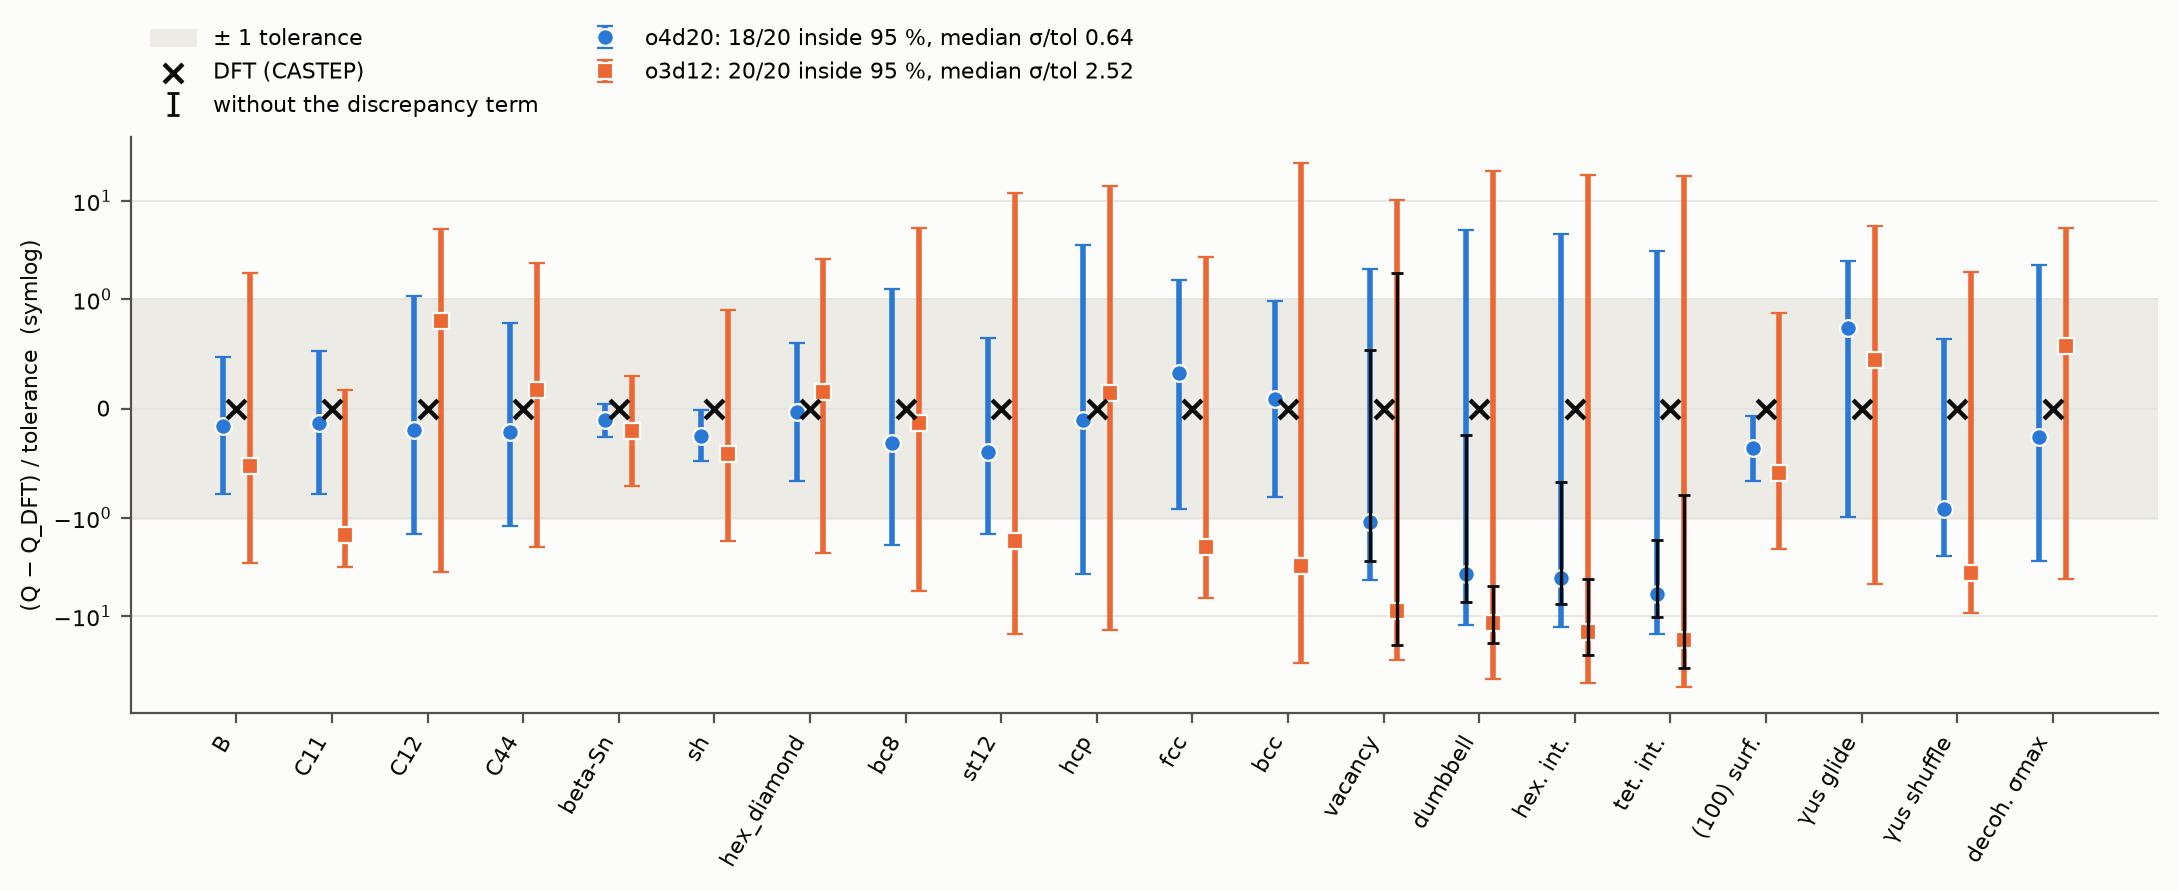
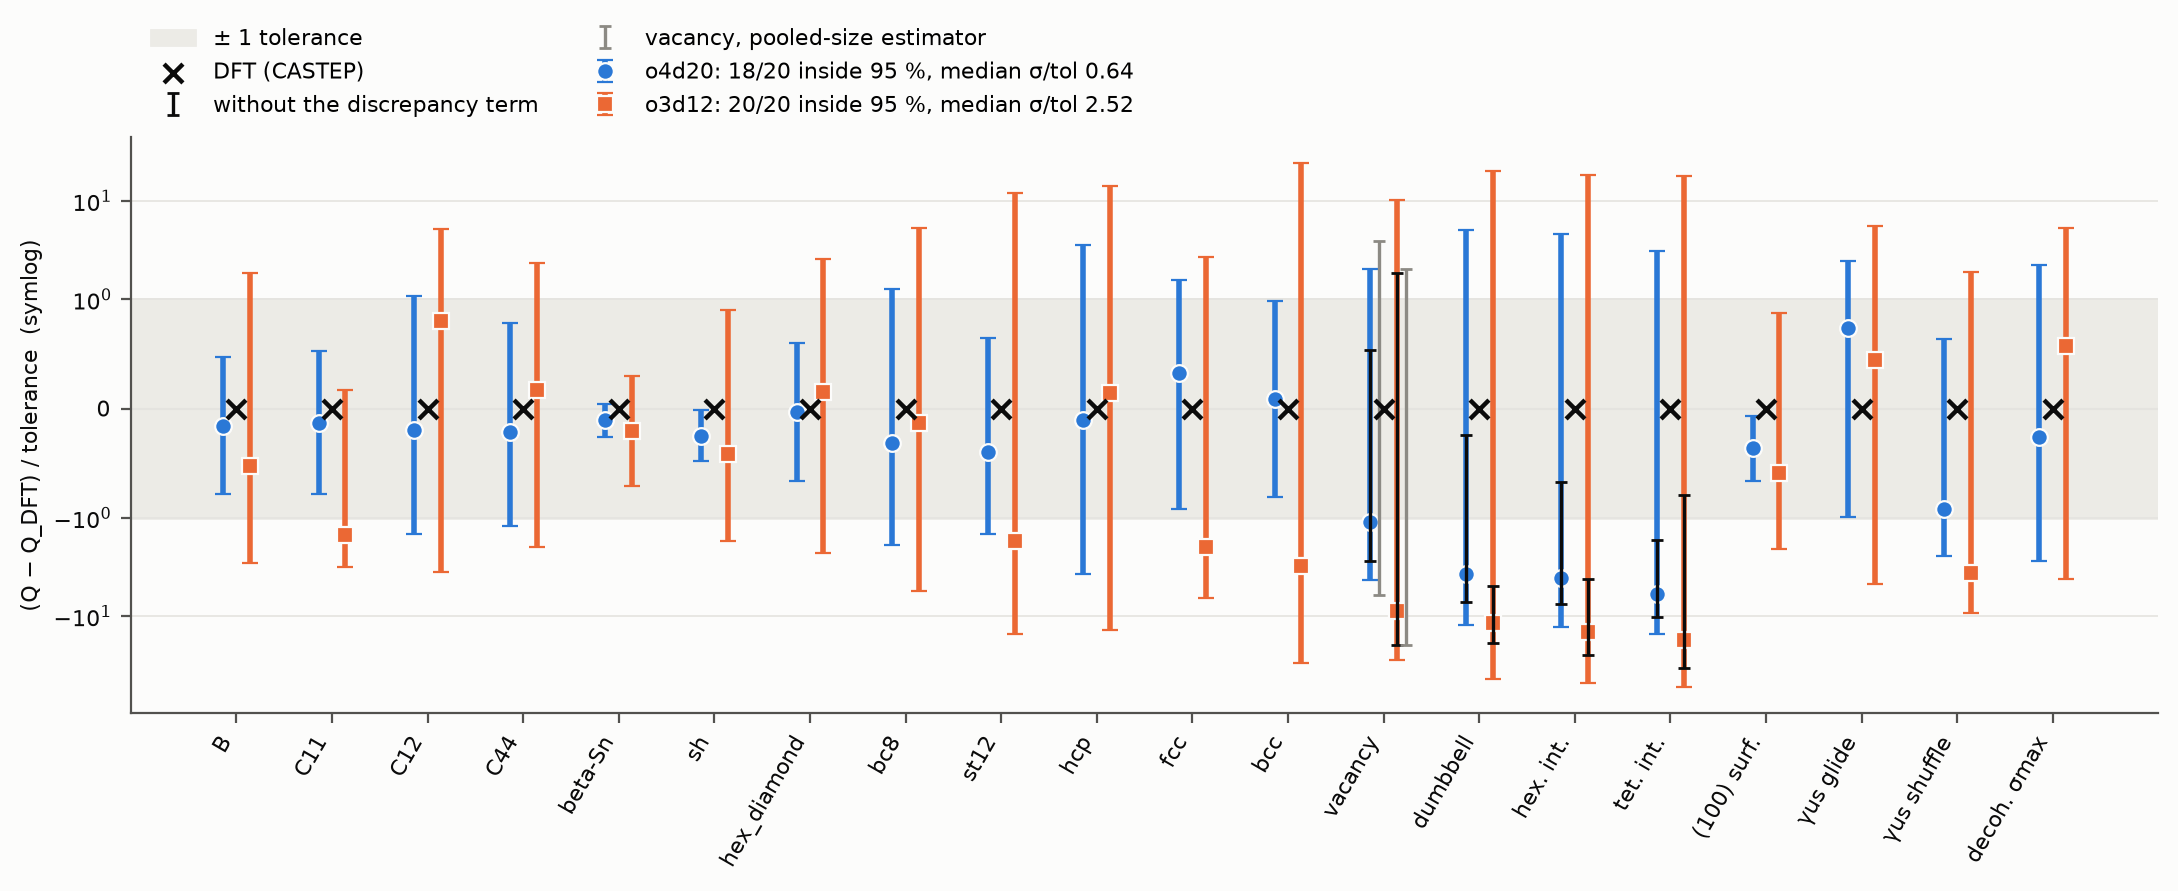
docs(si-qoi-uq): discrepancy figure shows the vacancy's pooled vs per-size estimator; moved after the vacancy section

Changed region(s): [[0.2498, 0.0303, 0.5308, 0.1212]]

diff --git a/bench/si_qoi_uq/artifact/paper.py b/bench/si_qoi_uq/artifact/paper.py
@@ -629,10 +629,6 @@ a bias that all interstitial clusters share. With per-atom energy weighting, 0.4
 (models with r*: {models_disc}).</caption>
 <thead><tr><th>model</th><th>method</th><th>95 % without</th><th>95 % with [CI]</th><th>68 %</th><th>median σ/tol</th></tr></thead>
 <tbody>{dcov_rows}</tbody></table></div>
-<figure><img src="fig8_model_compare_disc.png" alt="Per QoI, error over tolerance with 95 percent intervals for both models with the defect discrepancy term; the intervals without it shown as thin black bars on the four defect QoIs"><figcaption>Figure 8.
-As Figure 1, with the discrepancy term on the four defect QoIs (headline estimator, CR3 × λ<sub>F</sub>). Thin black bars: the
-same QoIs' 95 % intervals without the term. Only the vacancy and the three interstitials change; the term widens them enough to
-reach DFT, by much more for o3d12, whose defect bias is larger.</figcaption></figure>
 <div class="wrap"><table><caption>Table 7b. Sensitivity to the r* estimator, CR3 × λ<sub>F</sub> and λ<sub>V</sub>, 95 % (68 %) coverage of the
 20 QoIs. Headline: regression for the interstitial class, per-size regression for the vacancy. Paired: each defect snapshot against its nearest
 bulk snapshot (the form that is also a synthetic row). Regression: the bulk reference is a per-atom thermal trend fitted over all
@@ -675,7 +671,12 @@ per-size combination recovers 0.65 eV of the 0.77 eV model-to-model difference, 
 relaxing it ({cold_txt}) suggests that o3d12 over-relaxes. Both models relax the harness vacancy to a symmetric structure (vacancy
 neighbour distances {geo_txt}); the harness gives no DFT structure to compare.</p>
 <p class="note">Selection risk: the closeness of the 63-atom intercept to the vacancy QoI errors was seen before the heterogeneity and
-model-against-model checks. The choice rests on those checks and on the cold cell, which use no DFT QoI value.</p>""", "drafted", level=3)
+model-against-model checks. The choice rests on those checks and on the cold cell, which use no DFT QoI value.</p>
+<figure><img src="fig8_model_compare_disc.png" alt="Per QoI, error over tolerance with 95 percent intervals for both models with the defect discrepancy term, the vacancy from the per-size estimator; intervals without the term as thin black bars, and the vacancy with the pooled-size estimator as dashed grey bars"><figcaption>Figure 8.
+As Figure 1, with the headline discrepancy term on the four defect QoIs (CR3 × λ<sub>F</sub>): the regression estimator for the
+interstitials (Section 3.8) and the per-size inverse-variance estimator for the vacancy (Section 3.9). Thin black bars: the same QoIs'
+95 % intervals without the term. Dashed grey bars: the vacancy with the pooled-size regression estimator, which hardly widens it.
+Only the four defect QoIs change.</figcaption></figure>""", "drafted", level=3)
 
 tj = {m: json.load(open(RES / f"type_jackknife_{m}.json")) for m in ("o4d20", "o3d12") if (RES / f"type_jackknife_{m}.json").exists()}
 tjz = {}

diff --git a/bench/si_qoi_uq/figures.py b/bench/si_qoi_uq/figures.py
@@ -202,6 +202,8 @@ def model_compare(results, out, models, meth="CR3-headline", sc="lam_F", disc=Fa
         for r in csv.DictReader(open(results / "discrepancy.csv")):
             if r["method"] == f"{meth}+disc" and r["scale"] == sc:
                 dsig[(r["model"], r["qoi"])] = (float(r["sigma"]), float(r["sigma_disc"]))
+        dpool = {(r["model"], r["qoi"]): float(r["sigma"]) for r in csv.DictReader(open(results / "discrepancy_regression.csv"))
+                 if r["method"] == f"{meth}+disc" and r["scale"] == sc} if (results / "discrepancy_regression.csv").exists() else {}
         dj = json.load(open(results / "discrepancy.json"))
         for m in models:
             k = dj.get(m, {}).get(f"{meth}+disc/{sc}")
@@ -223,6 +225,11 @@ def model_compare(results, out, models, meth="CR3-headline", sc="lam_F", disc=Fa
             sel = np.array([(m, k) in dsig and dsig[(m, k)][1] > 0 for k in COVER_KEYS])
             ax.errorbar((x + (j - 0.5) * 0.28)[sel], e[sel], yerr=h0[sel], fmt="none", ecolor=INK, elinewidth=1.2, capsize=2,
                         zorder=4, label="without the discrepancy term" if j == 0 else None)
+            if (m, "vacancy_energy") in dpool and "vacancy_energy" in r:       # the vacancy with the pooled-size estimator
+                kv = COVER_KEYS.index("vacancy_energy")
+                hv = Z95 * dpool[(m, "vacancy_energy")] / r["vacancy_energy"]["tol"]
+                ax.errorbar([x[kv] + (j - 0.5) * 0.28 + 0.09], [e[kv]], yerr=[hv], fmt="none", ecolor="#8c8a84", elinewidth=1.2,
+                            capsize=2, ls="--", zorder=4, label="vacancy, pooled-size estimator" if j == 0 else None)
         c = cov.get((m, meth, sc), {})
         lab = f"{m}: {c.get('k95', '?')}/{c.get('n', '?')} inside 95 %, median σ/tol {float(c.get('median_sigma_over_tol', 'nan')):.2f}"
         ax.errorbar(x + (j - 0.5) * 0.28, e, yerr=h, fmt=MARK[j], ms=6, color=CAT[j], ecolor=CAT[j], elinewidth=2,
